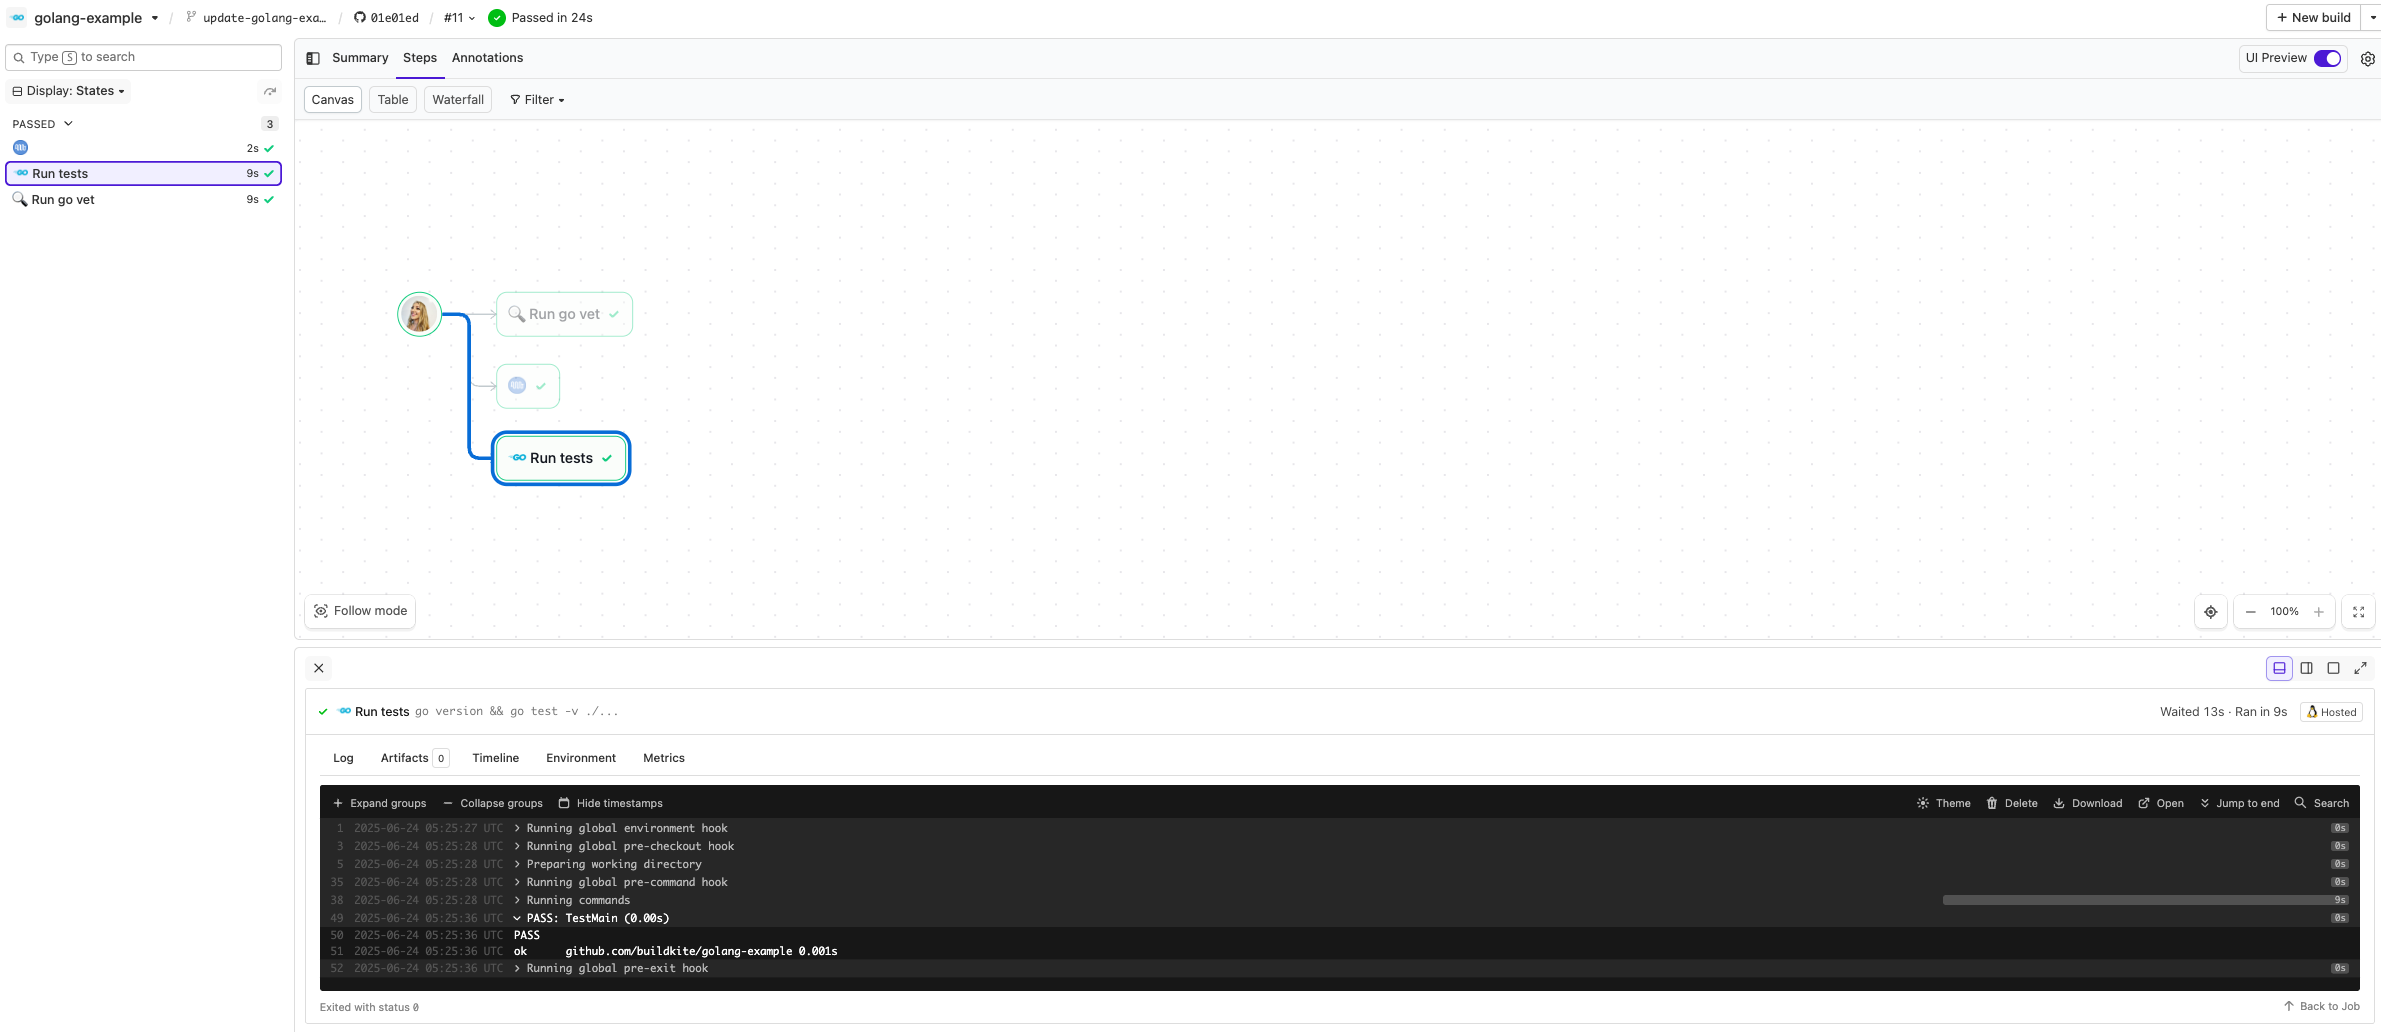
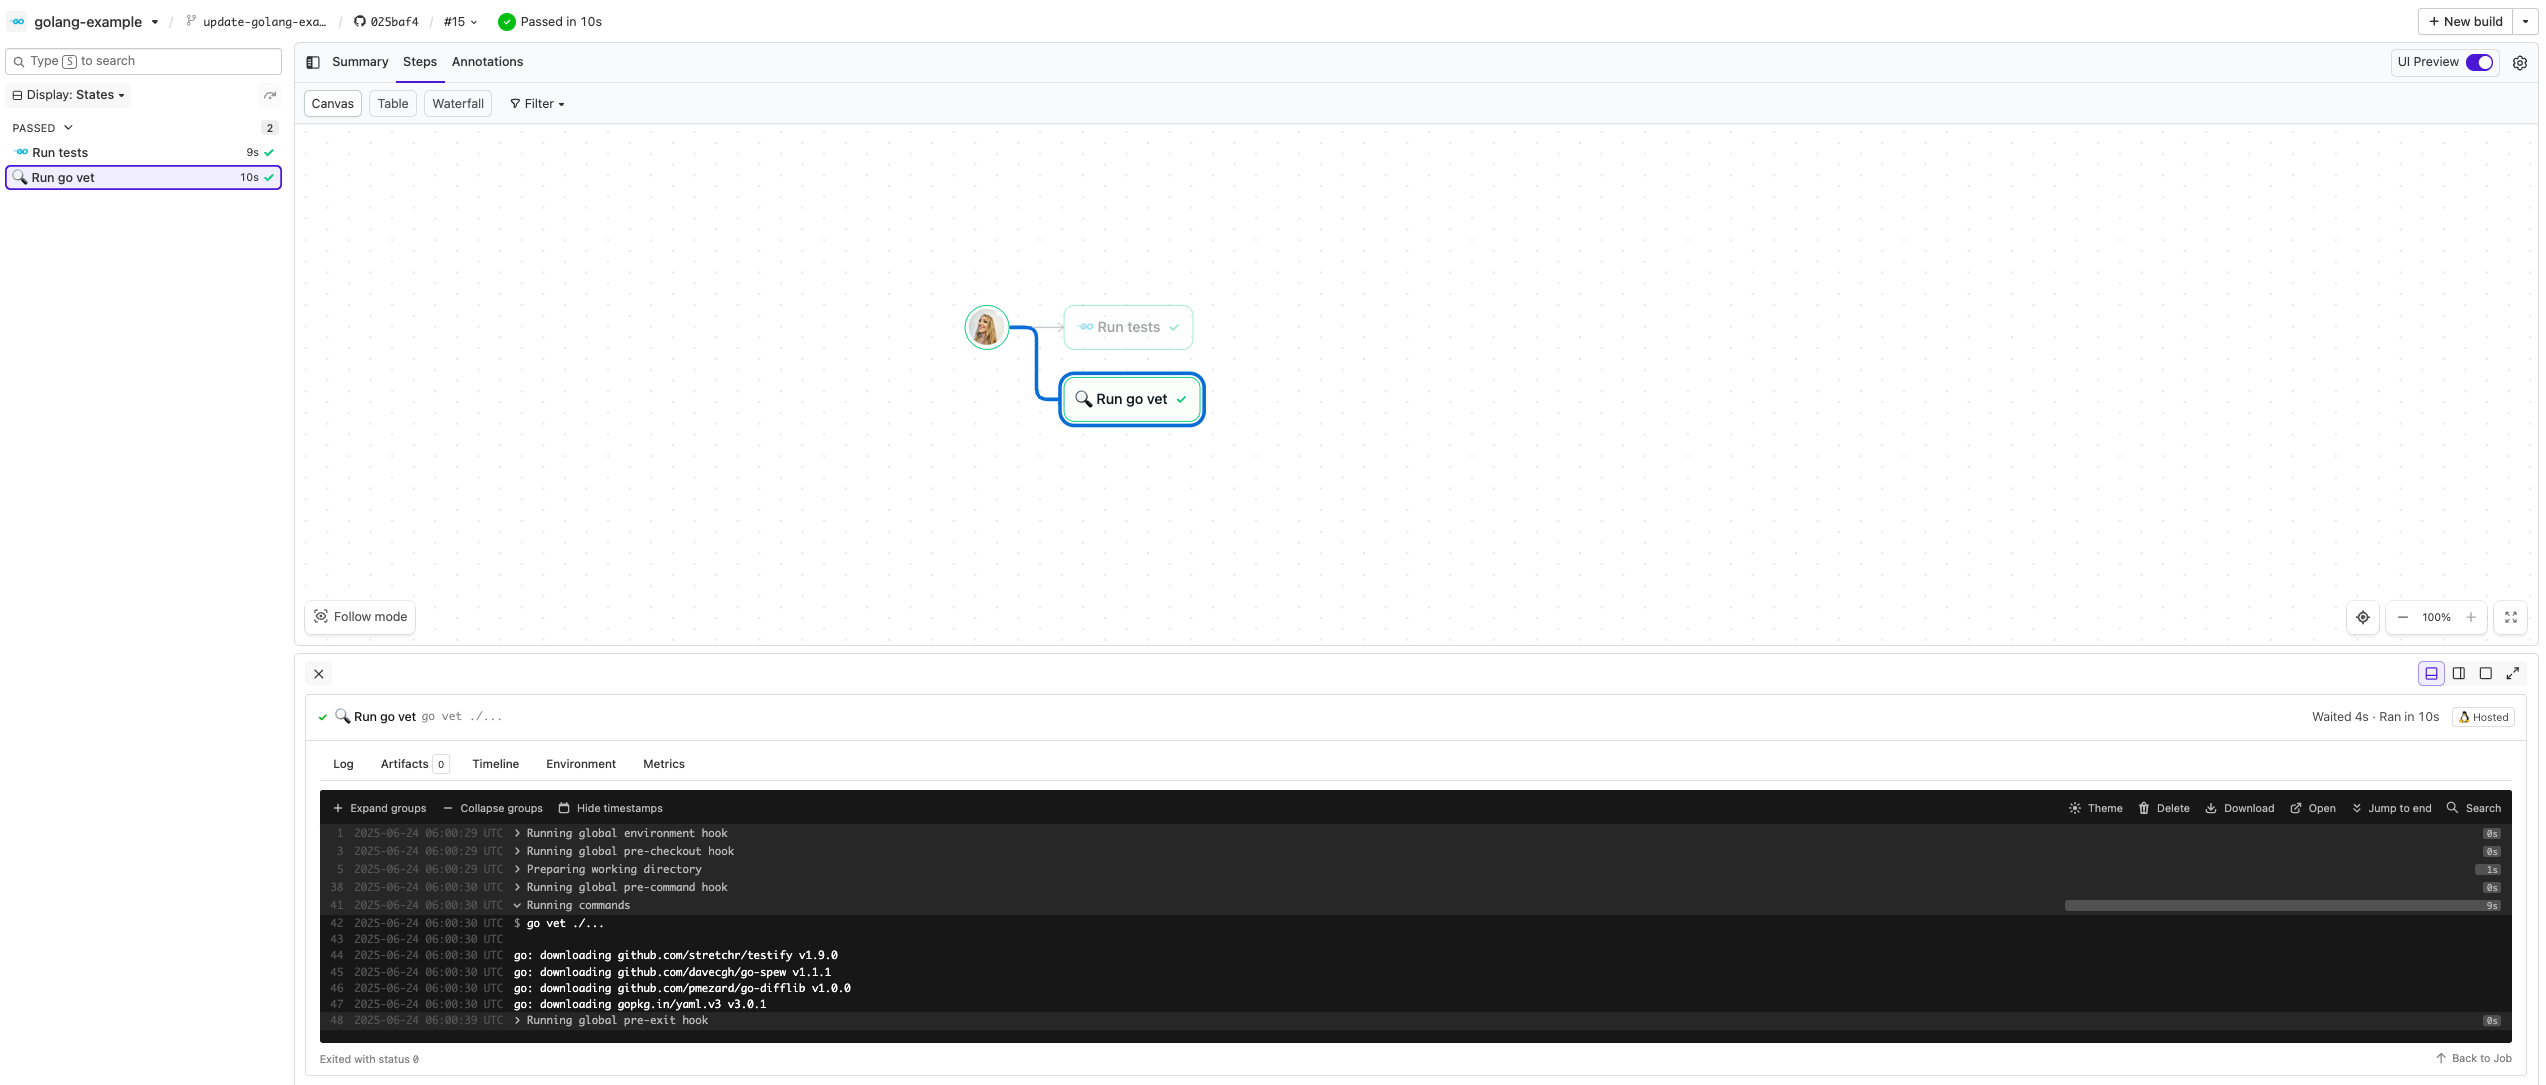
Moved yml steps to BK UI. Updated Readme and screenshot

diff --git a/Readme.md b/Readme.md
@@ -23,8 +23,14 @@ This example:
 > Check out [buildkite/golang-docker-example](https://github.com/buildkite/golang-docker-example)
 
 ## Requirements
+
 - A Buildkite agent with Go installed
-  _(or use a hosted agent image like this repo does. See [Buildkite Hosted Agents](https://buildkite.com/docs/pipelines/hosted-agents))_
+  _(or you can use a **Buildkite-hosted agent image with Go preinstalled**, like this repo does — no setup needed!)_
+  See [Buildkite Hosted Agents](https://buildkite.com/docs/pipelines/hosted-agents) for details.
+
+> 💡 In this example, the default queue is set in the Buildkite **Pipeline Settings → Steps** UI,
+> so there's no need to specify it inside the `.buildkite/pipeline.yml` file.
+
 
 ## To try it yourself
 
